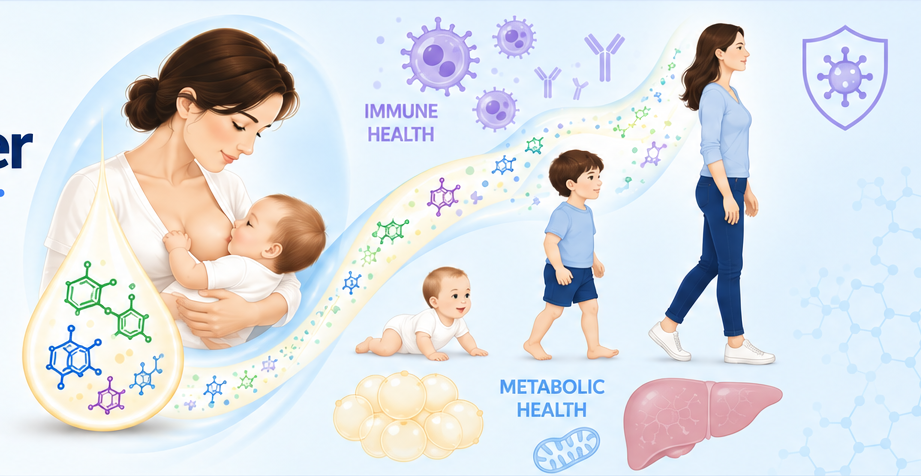
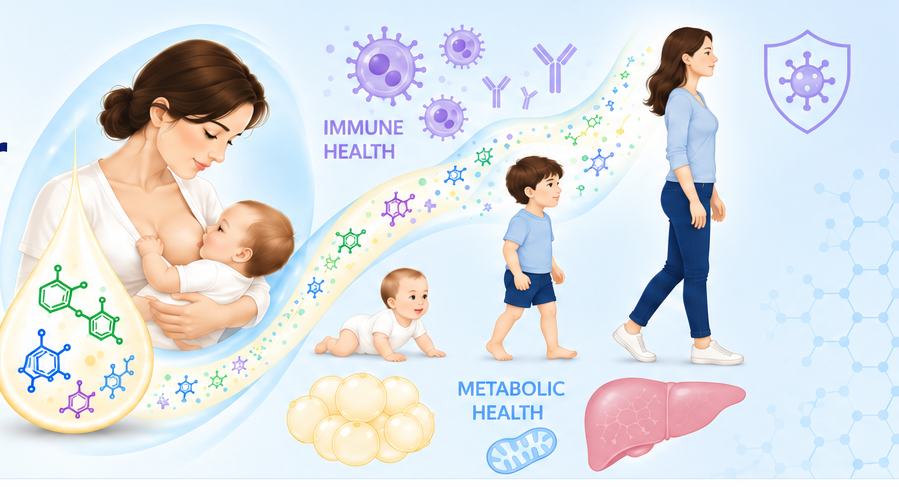
Add files via upload

diff --git a/index.html b/index.html
@@ -106,9 +106,9 @@
 
     <aside class="join-panel">
       <h2>Join Our Team</h2>
-      <p>We are interested in enthusiastic and creative researchers who want to understand how early-life biology shapes health.</p>
+      <p>We welcome curious, creative scientists who want to tackle important questions in early-life biology through rigorous, collaborative research.</p>
       <a class="button" href="join.html">View Open Positions <span>→</span></a>
-      <p class="tagline">Science for a healthier tomorrow.</p>
+      <p class="tagline"><strong>Bold questions. Rigorous science. Meaningful discovery.</strong></p>
     </aside>
   </section>
 </main>
@@ -117,7 +117,7 @@
   <span>© 2026 Karst Laboratory</span>
   <span>Department of Molecular Genetics &amp; Microbiology</span>
   <span>University of Florida</span>
-  <span class="footer-tagline">Science for a healthier tomorrow.</span>
+  <span class="footer-tagline">Discovering how early life shapes lifelong health.</span>
 </footer>
 </body>
 </html>

diff --git a/styles.css b/styles.css
@@ -276,9 +276,10 @@ nav a.active{
 
 .tagline{
   margin-top:14px!important;
-  color:#4d78b1;
-  font-style:italic;
+  color:var(--navy);
+  font-style:normal;
   font-size:1rem!important;
+  letter-spacing:.005em;
 }
 
 footer{
